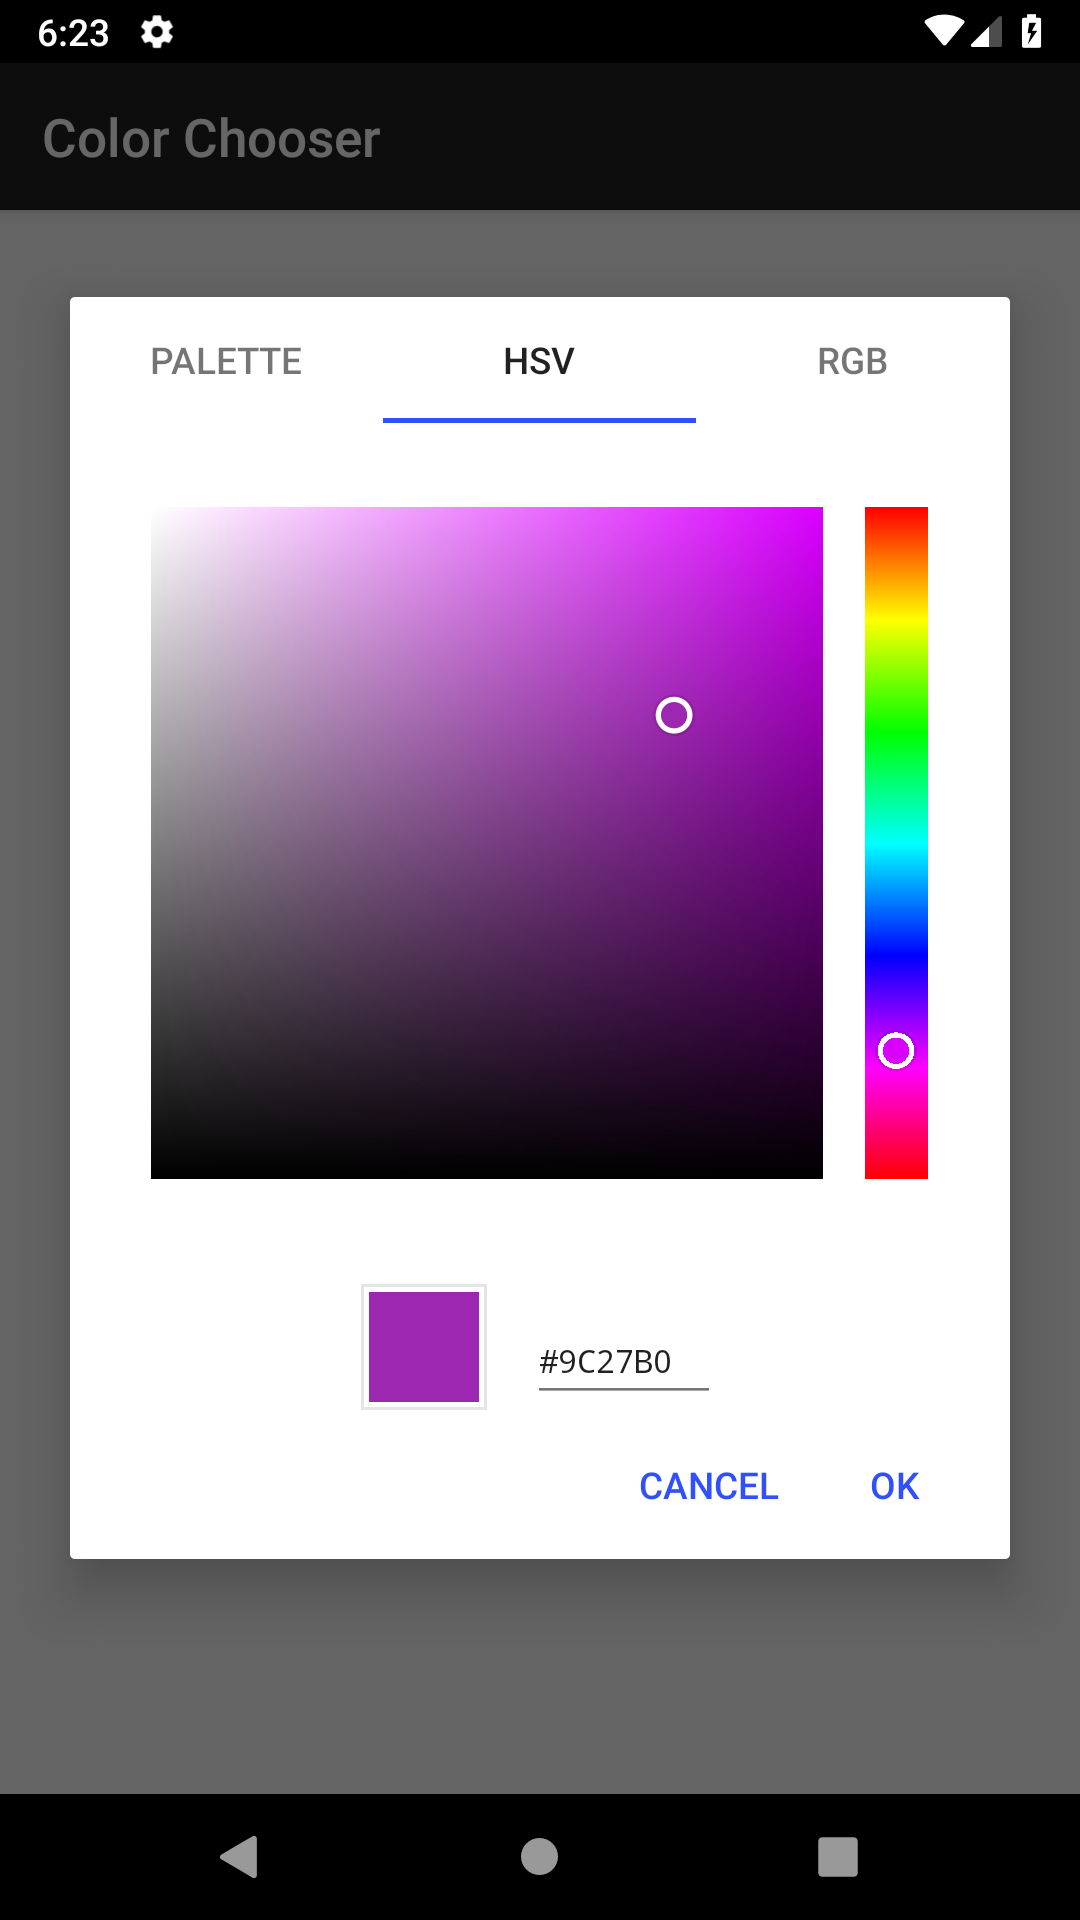
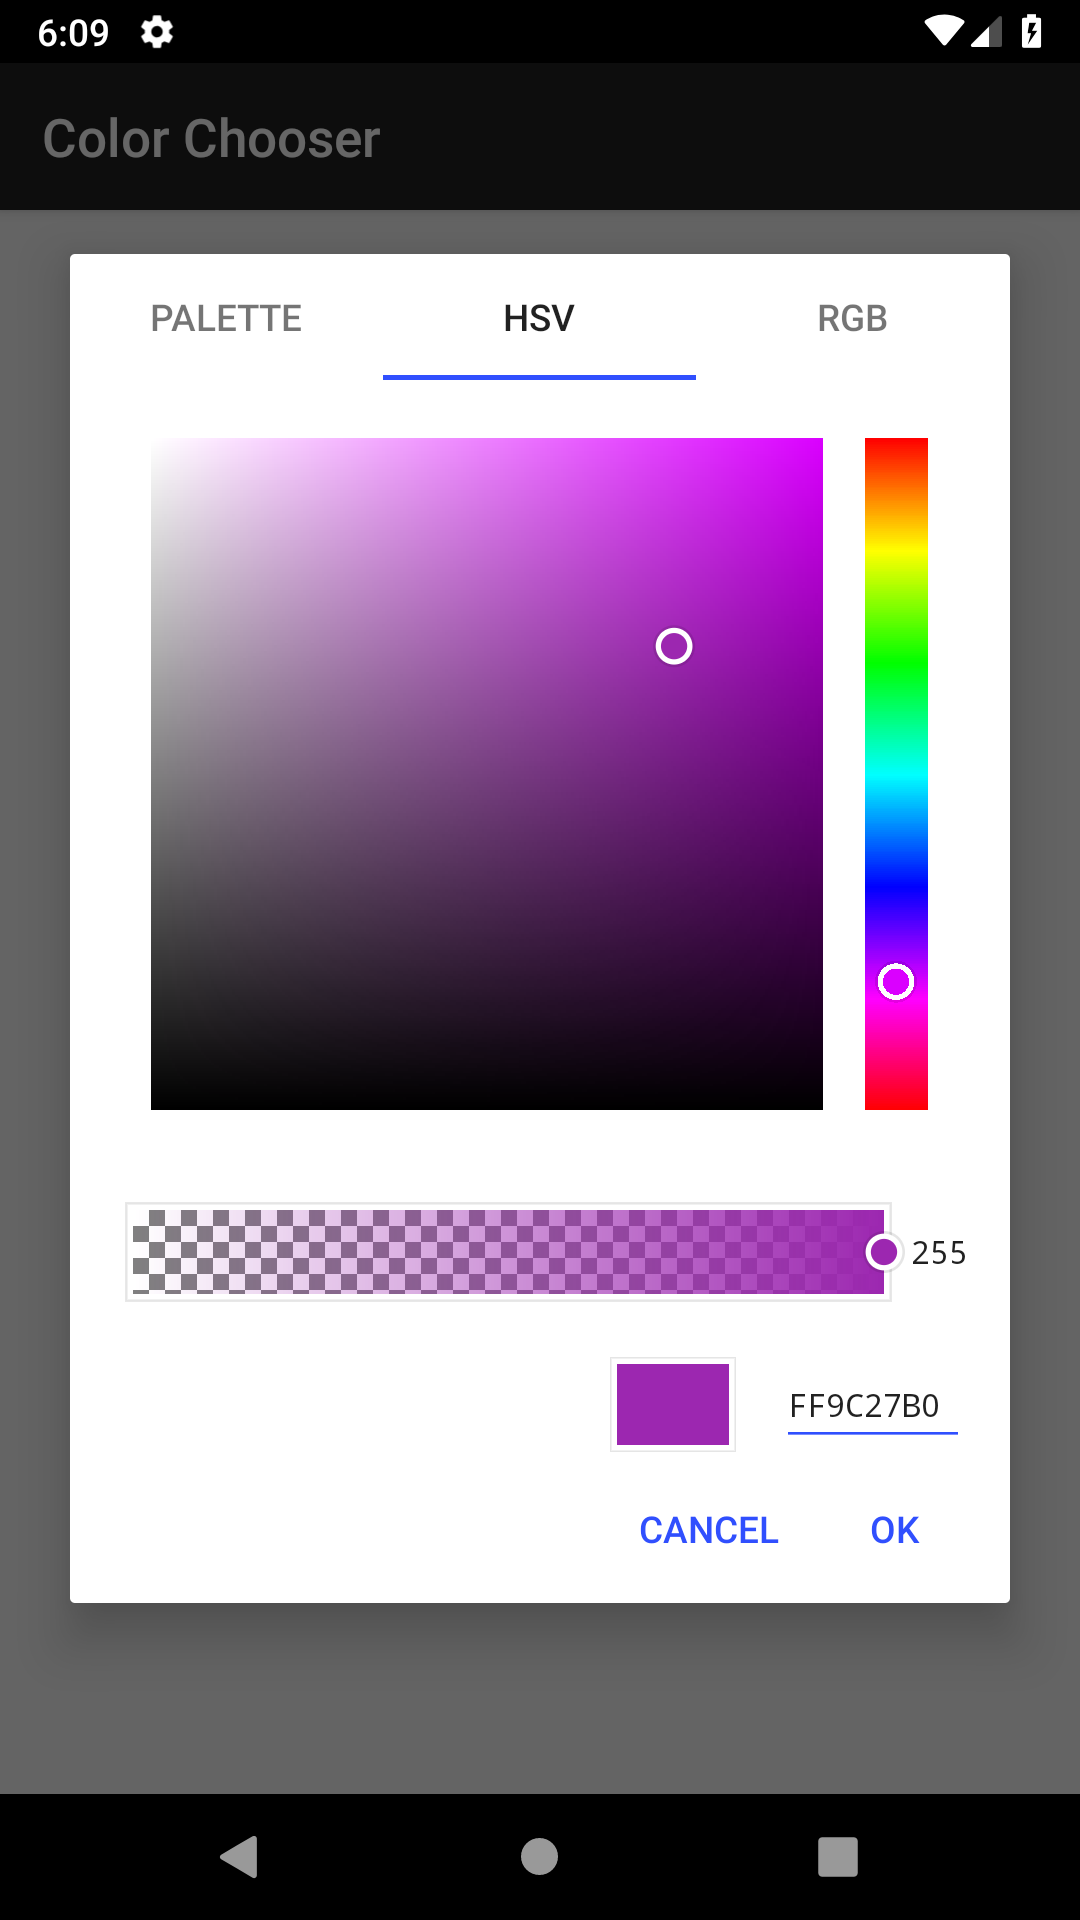
:memo: update readme

diff --git a/README.md b/README.md
@@ -11,6 +11,7 @@
 |![](readme/1.png)|![](readme/2.png)|![](readme/3.png)|
 |:-:|:-:|:-:|
 |![](readme/4.png)|![](readme/5.png)|![](readme/6.png)|
+|![](readme/7.png)|![](readme/8.png)|![](readme/9.png)|
 
 ## How to use
 
@@ -24,14 +25,19 @@ repositories {
 Add dependencies, as following.
 ```gradle
 dependencies {
-    implementation 'net.mm2d:color-chooser:0.0.2'
+    implementation 'net.mm2d:color-chooser:0.1.0'
 }
 ```
 
 To show dialog. On `FragmentActivity` or `Fragment`
 
 ```kotlin
-ColorChooserDialog.show(this, REQUEST_CODE, initialColor)
+ColorChooserDialog.show(
+    this,         // Fragment or FragmentActivity
+    REQUEST_CODE, // request code for receive result
+    initialColor, // initial color
+    true          // false, if alpha is not needed
+)
 ```
 
 To receive result. Implement `ColorChooserDialog.Callback` to `Activity` or `Fragment` 
@@ -46,6 +52,23 @@ class MainActivity : AppCompatActivity(), ColorChooserDialog.Callback {
 ```
 
 Please see [Sample code](sample/src/main/java/net/mm2d/color/chooser/sample/MainActivity.kt) for detail.
+
+## Dependent OSS
+
+### color-chooser
+
+- [Kotlin](https://kotlinlang.org/)
+- [Android Jetpack](https://developer.android.com/jetpack/)
+  - androidx.appcompat:appcompat
+  - androidx.core:core-ktx
+  - com.google.android.material:material
+
+### sample app
+
+- [Kotlin](https://kotlinlang.org/)
+- [Android Jetpack](https://developer.android.com/jetpack/)
+  - androidx.appcompat:appcompat
+  - androidx.constraintlayout:constraintlayout
 
 ## Author
 大前 良介 (OHMAE Ryosuke)
